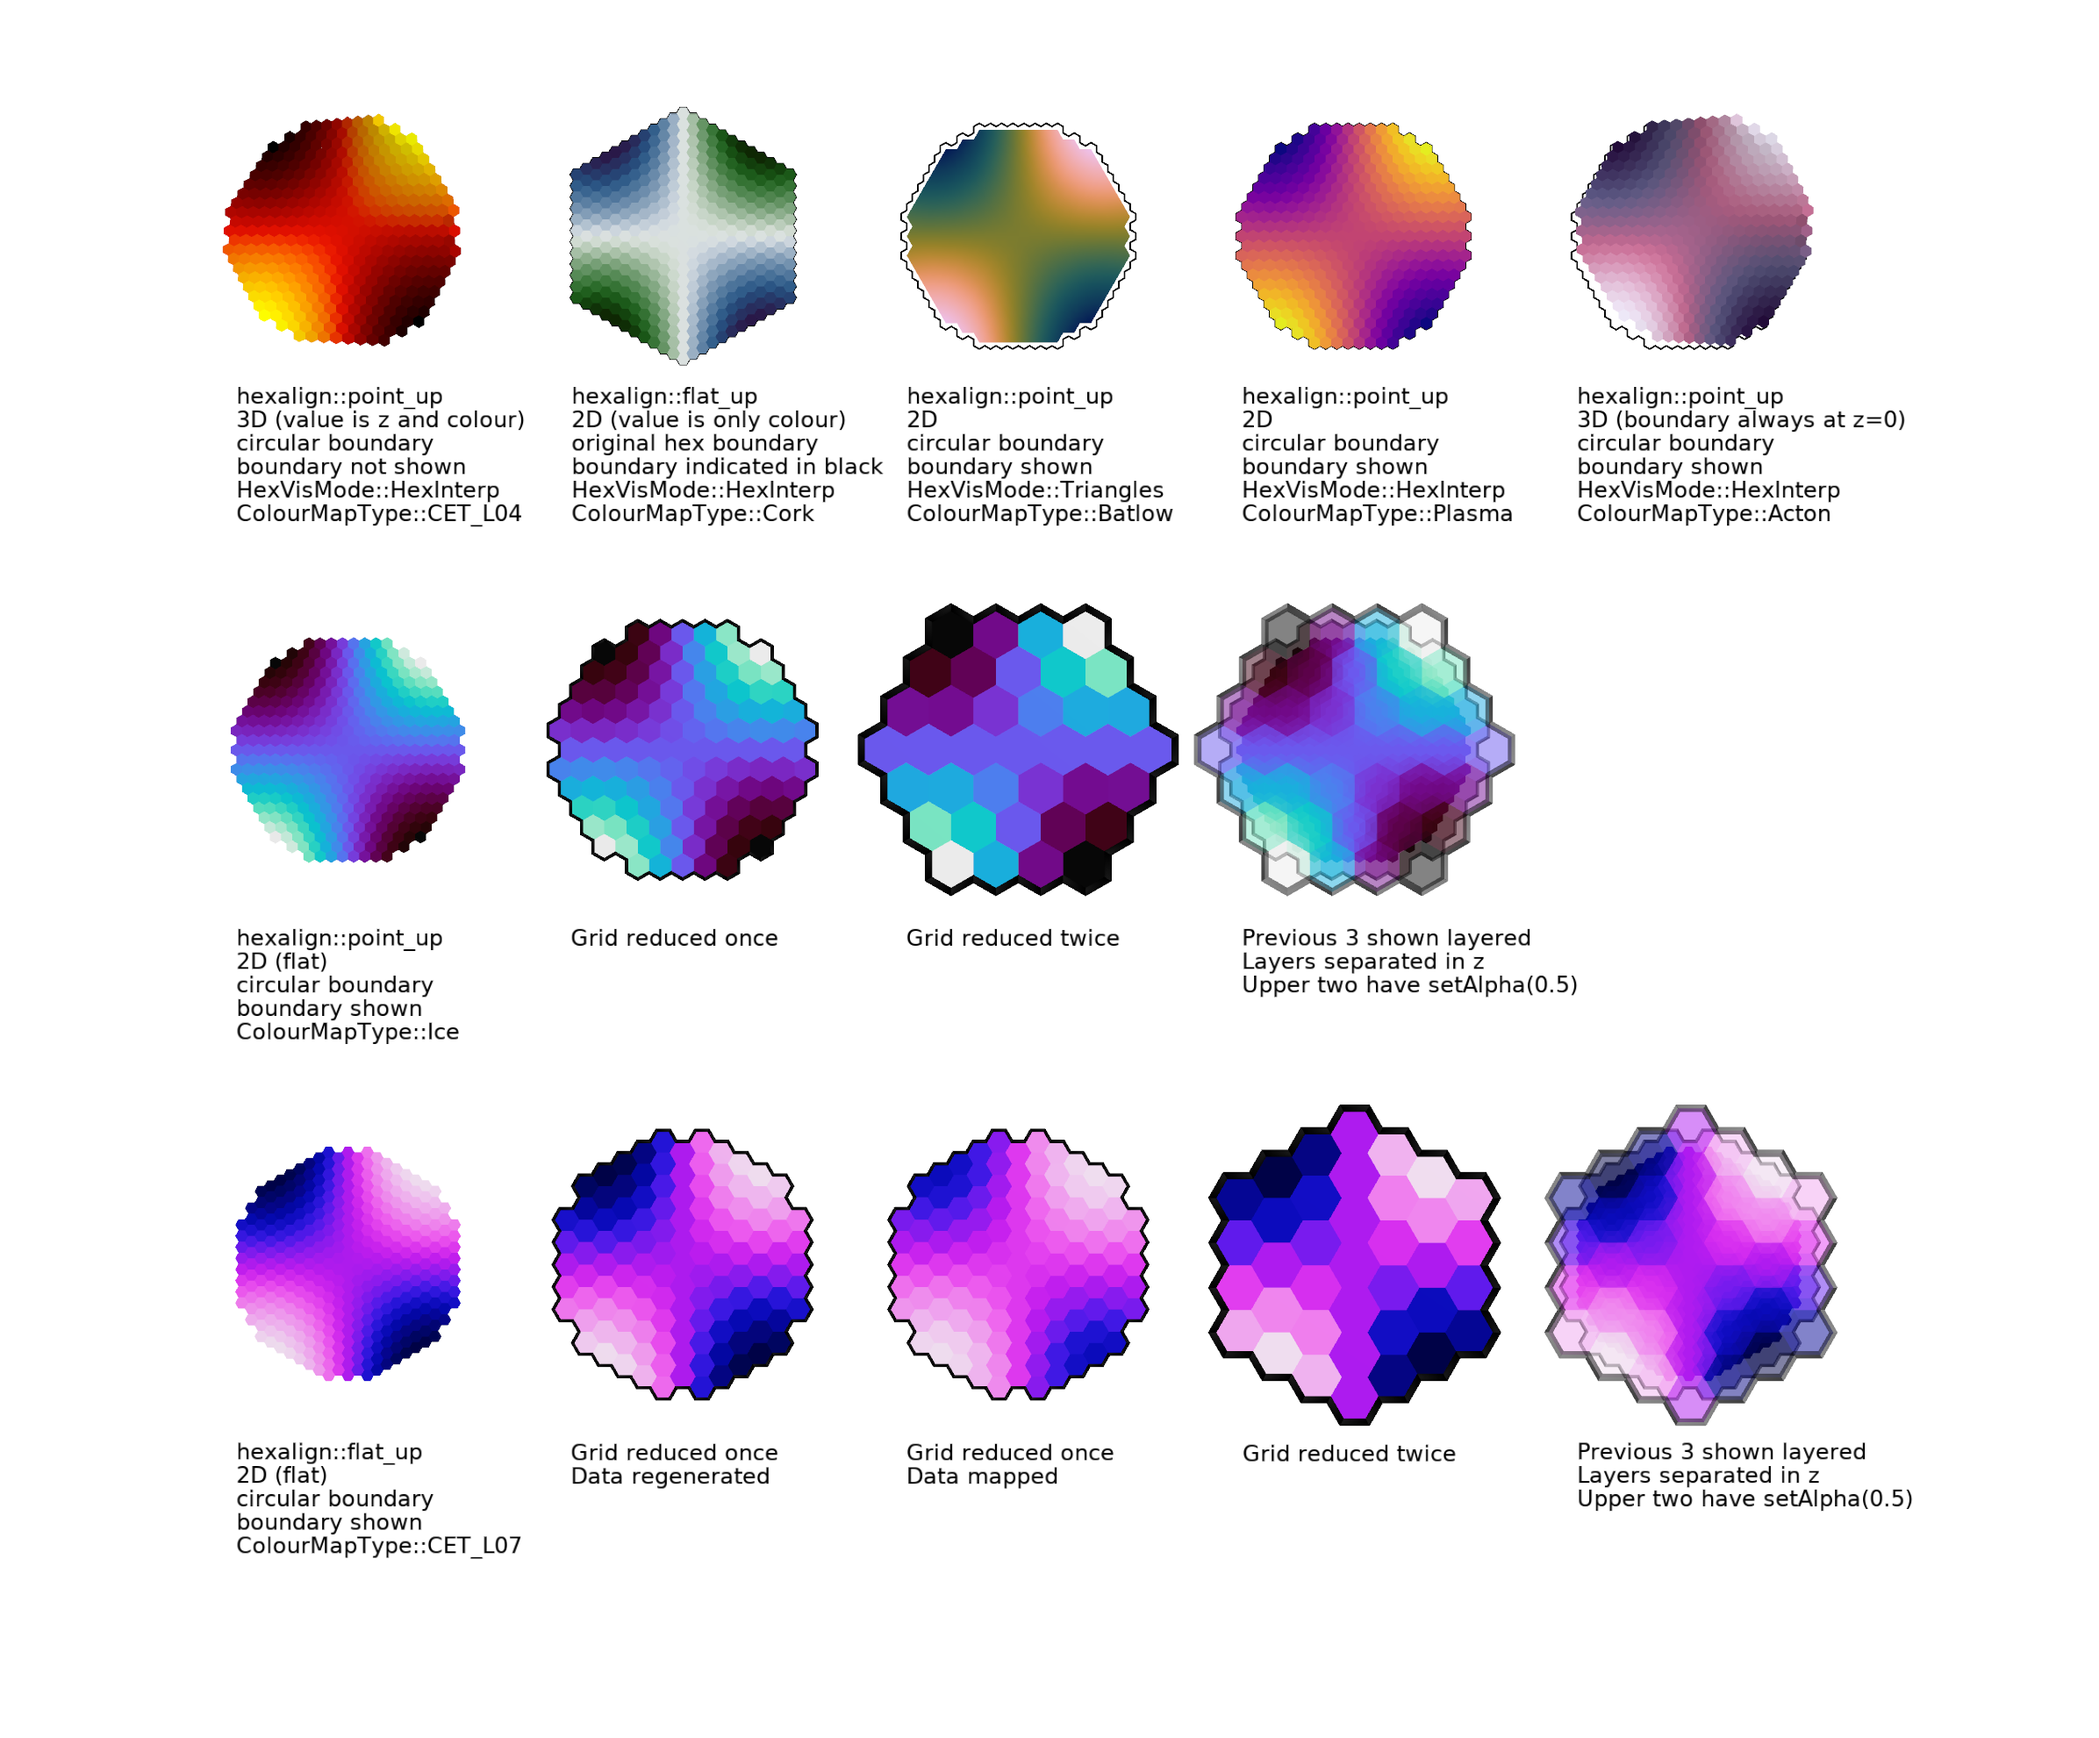
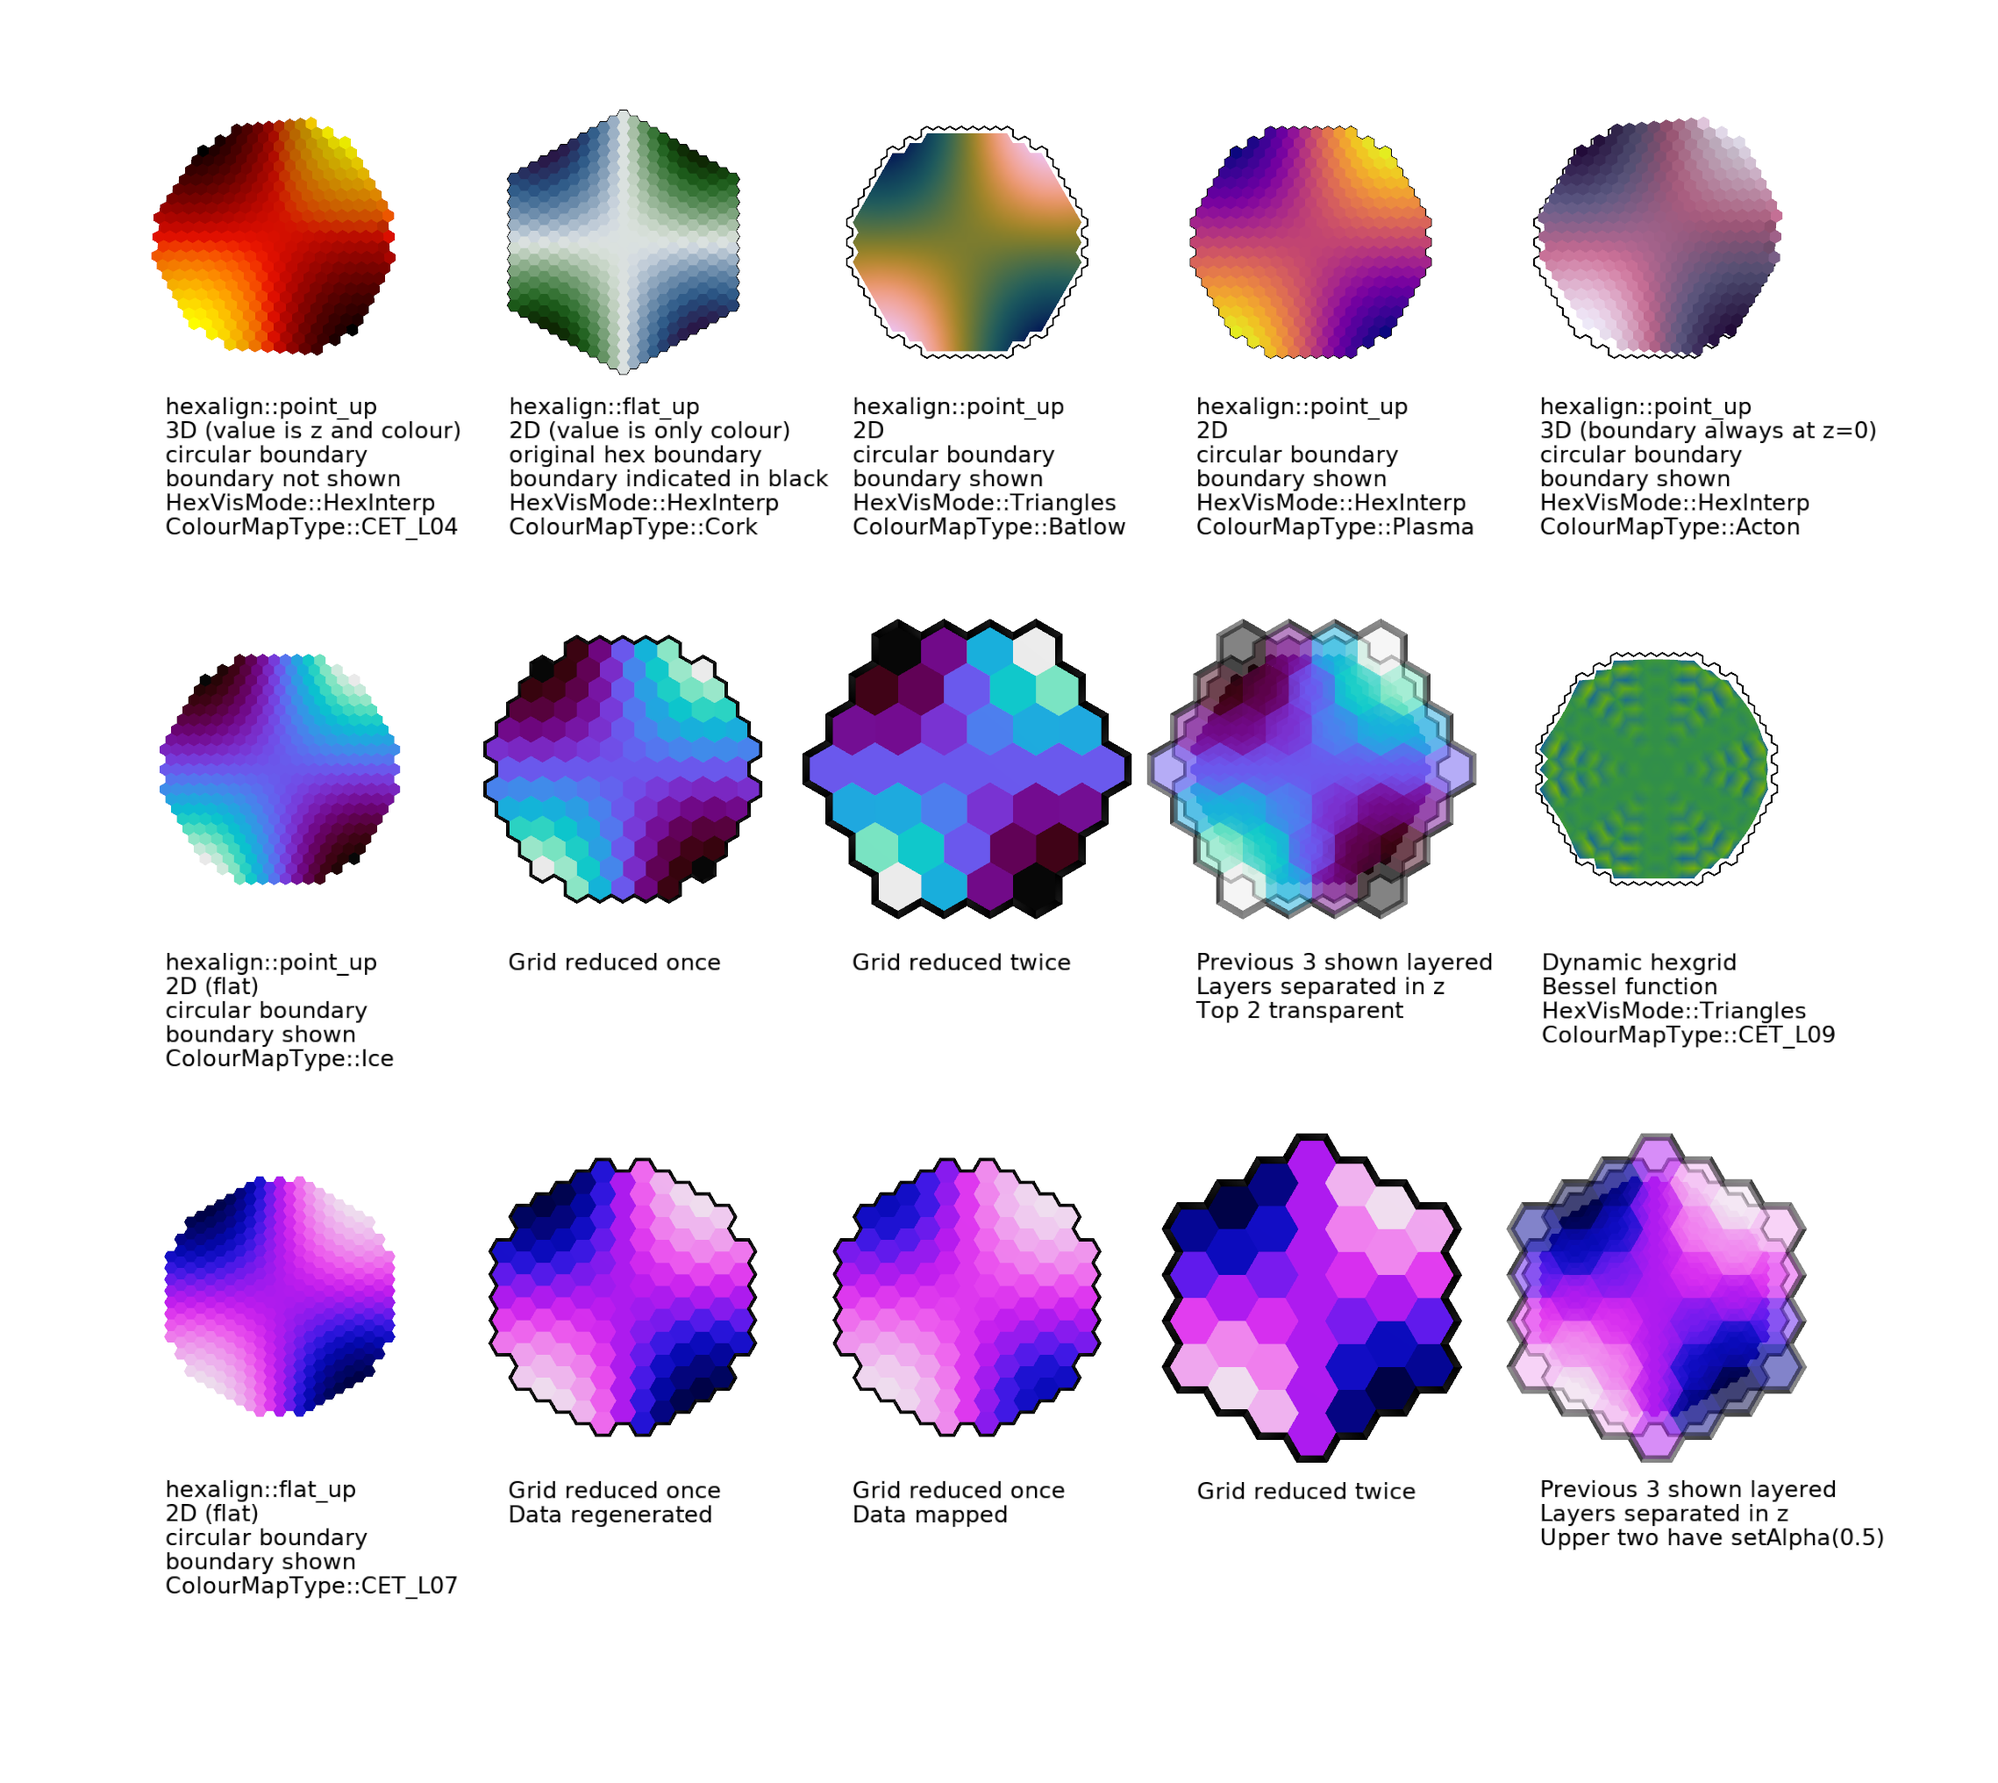
Adds a dynamic example to hexgrid.cpp

diff --git a/examples/hexgrid.cpp b/examples/hexgrid.cpp
@@ -225,7 +225,7 @@ int main()
     hgv_pu->setScalarData (&data1);
     hgv_pu->hexVisMode = mplot::HexVisMode::HexInterp;
     hgv_pu->zScale.null_scaling();
-    hgv_pu->addLabel ("Previous 3 shown layered\nLayers separated in z\nUpper two have setAlpha(0.5)", label_pos, tf);
+    hgv_pu->addLabel ("Previous 3 shown layered\nLayers separated in z\nTop 2 transparent", label_pos, tf);
     hgv_pu->finalize();
     v.addVisualModel (hgv_pu);
 
@@ -339,5 +339,43 @@ int main()
     hgv_fl->finalize();
     v.addVisualModel (hgv_fl);
 
-    v.keepOpen();
+    // Lastly, a dynamic HexGridVisual.
+
+    // Dynamic hexgrid data is a Bessel function
+    std::vector<float> dyn_data(hg1.num(), 0.0f);
+    std::vector<float> r(hg1.num(), 0.0f);
+    float k = 1.0f;
+    auto compute_bessel = [&r, &dyn_data, hg1] (const float k) {
+        for (std::uint32_t hi = 0; hi < hg1.num(); ++hi) {
+            r[hi] = std::sqrt (hg1.d_x[hi] * hg1.d_x[hi] + hg1.d_y[hi] * hg1.d_y[hi]);
+            dyn_data[hi] = std::sin (100.0f * k * r[hi]) / k * r[hi];
+        }
+    };
+
+    // Compute first data state
+    compute_bessel (k);
+
+    // Add a HexGridVisual to display the HexGrid within the mplot::Visual scene
+    offset = {4 * cw, -1 * rh, 0.02f };
+    auto hgv = std::make_unique<mplot::HexGridVisual<float>>(&hg1, offset);
+    hgv->set_parent (v.get_id());
+    hgv->setScalarData (&dyn_data);
+    hgv->showboundary = true;
+    hgv->cm.setType (mplot::ColourMapType::CET_L09);
+    hgv->hexVisMode = mplot::HexVisMode::Triangles;
+    hgv->addLabel ("Dynamic hexgrid\nBessel function\nHexVisMode::Triangles\nColourMapType::CET_L09", label_pos, tf);
+    hgv->finalize();
+    auto hgvp = v.addVisualModel (hgv);
+
+    // Now loop, updating the dynamic hexgrid
+    while (v.readyToFinish() == false) {
+        v.wait (0.08);
+        if (k > 8.0f) { k = 1.0f; }
+        compute_bessel (k);
+        k += 0.1f;
+        if (v.validVisualModel (hgvp) != nullptr) { // Test hgvp is still valid
+            hgvp->updateData (&dyn_data);
+        }
+        v.render();
+    }
 }
